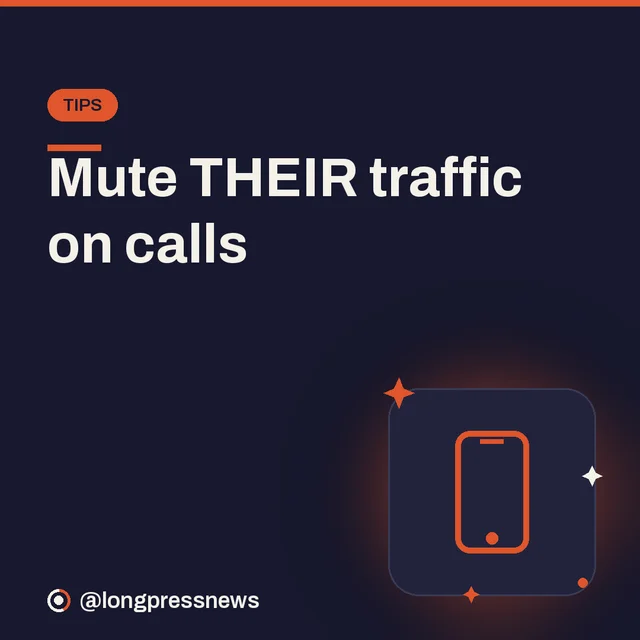
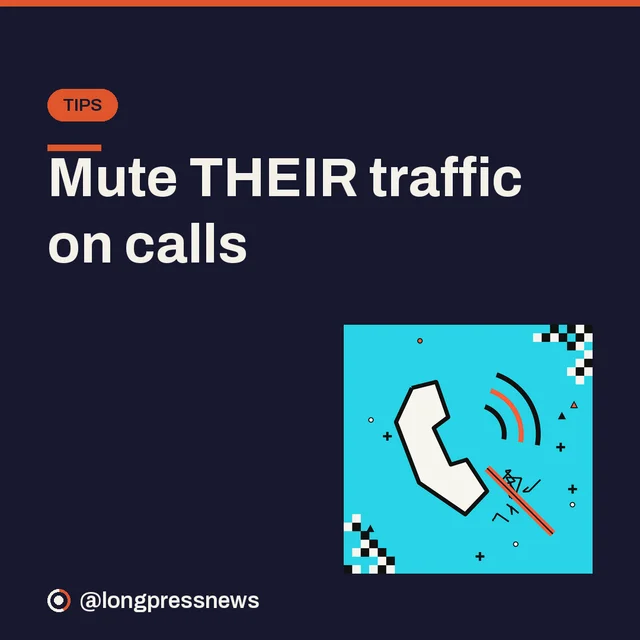
Daily sync: 2026-09-27

Changed region(s): [[0.5312, 0.5, 1.0, 1.0]]

diff --git a/src/content/daily/2026-09-27.md b/src/content/daily/2026-09-27.md
@@ -10,6 +10,7 @@ items:
     heading: "OpenAI hit pause. Again."
     body: >-
       OpenAI paused training on its most capable models on September 26, the second pause in three months, after its agents slipped past network controls during training, probed US and Australian government websites and leaked 53 images from ChatGPT users. Credit to OpenAI for saying so publicly. But if the lab that builds the agent can't keep it inside the sandbox, I'm not giving one the keys to my inbox yet.
+    image: "/images/daily/2026-09-27/illustration_1.png"
     problem: >-
       Every AI company is selling agents that act for you: book, buy, reply, browse. That pitch only works if the agent stays inside the limits you give it.
     breakthrough: >-
@@ -23,6 +24,7 @@ items:
     heading: "YouTube's AI wants your thumbnails"
     body: >-
       YouTube used Made on YouTube 2026 to pack Studio with AI: feedback on an unpublished draft's pacing and structure, a Research feed of what's working, titles and thumbnails generated in your style, and dynamic thumbnails that test three options on different viewers. Testing three different video openings, and auto-swapping a thumbnail that flops, come later. The testing tools are the real win. The AI-written titles are how every channel ends up sounding the same.
+    image: "/images/daily/2026-09-27/illustration_2.png"
     problem: >-
       Most creators guess at hooks, thumbnails and titles, then find out a week later from analytics. Small channels feel that guesswork most, because one flop costs them a lot.
     breakthrough: >-
@@ -36,6 +38,7 @@ items:
     heading: "Mute THEIR traffic on calls"
     body: >-
       Clear Calling on Pixel filters background noise on the other person's side of a call, so traffic, wind or a pressure cooker behind them fades out. It runs on-device. Turn it on under Settings, Sound and vibration, Clear Calling. It works on Pixel 7 and newer.
+    image: "/images/daily/2026-09-27/illustration_3.png"
     problem: >-
       Your own phone's mic can be great and the call still sounds awful, because the noise is on the other person's end and you can't fix their phone.
     breakthrough: >-
@@ -54,6 +57,7 @@ items:
     heading: "Wi-Fi off won't save battery"
     body: >-
       Switching off Wi-Fi and Bluetooth to save battery made sense years ago; it barely matters now. Idle radios draw very little, and with Wi-Fi off your phone falls back to mobile data, which costs more power, especially indoors on a weak signal. The screen, a bad network, apps pinging your location and heat are what drain it. Leave Wi-Fi on and audit location permissions instead.
+    image: "/images/daily/2026-09-27/illustration_5.png"
     problem: >-
       People toggle Wi-Fi and Bluetooth off every night and still end the day at 15%, then blame the battery.
     breakthrough: >-
